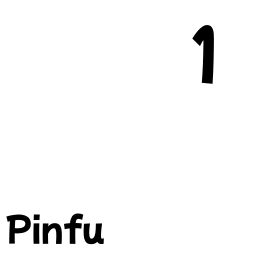
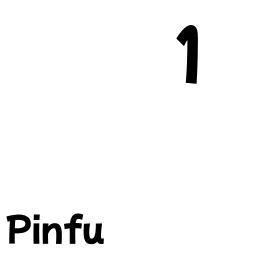
Project done

Changed region(s): [[0.6875, 0.0938, 0.8438, 0.3438]]

diff --git a/src/main.rs b/src/main.rs
@@ -8,7 +8,8 @@ use indicatif::ProgressBar;
 pub struct Yaku {
   pub name: String,
   pub han: u32,
-  pub closed_only: bool
+  pub closed_only: bool,
+  pub additional_on_closed: Option<bool>,
 }
 
 #[derive(Serialize, Deserialize, Debug)]
@@ -31,10 +32,18 @@ fn draw_icon(font: &Vec<u8>, yaku: Yaku) {
   let han = if yaku.han > 6 {
     "Y".to_string()
   } else {
-    format!("{}", yaku.han)
+    if yaku.additional_on_closed.is_some() {
+      format!("{}/{}", yaku.han, yaku.han + 1)
+    } else {
+      format!("{}", yaku.han)
+    }
   };
 
-  let han_text = Text::new((256 - (36 * 2), 2), [255, 0, 0, 0], font, WORD_HEIGHT as f32 * 2.0, 1.0, han);
+  let han_text = if yaku.additional_on_closed.is_some() {
+    Text::new((240 - (42 * 3), 2), [255, 0, 0, 0], font, WORD_HEIGHT as f32 * 2.0, 1.0, han)
+  } else {
+    Text::new((240 - (36 * 2), 2), [255, 0, 0, 0], font, WORD_HEIGHT as f32 * 2.0, 1.0, han)
+  };
   canvas.draw(&han_text); 
 
   image::save_buffer(format!("output/{}.png", yaku.name), &buf, x as u32, y as u32, ColorType::Rgba8).unwrap();
